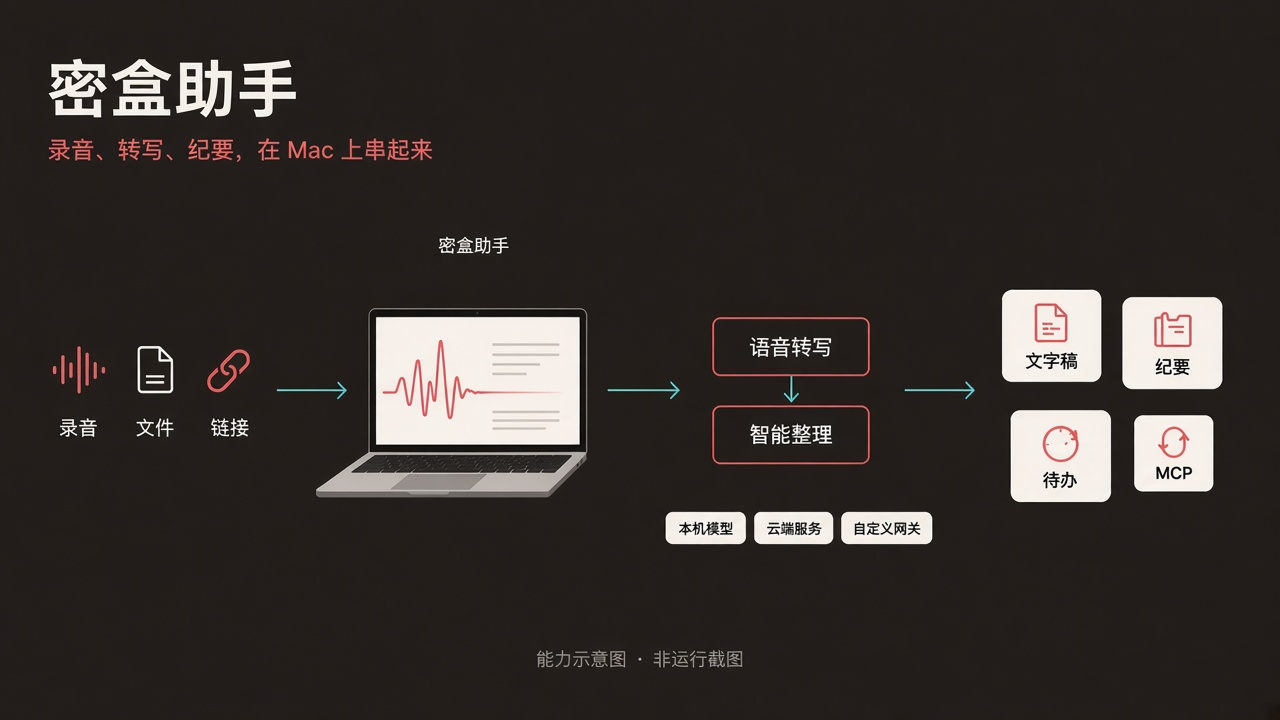
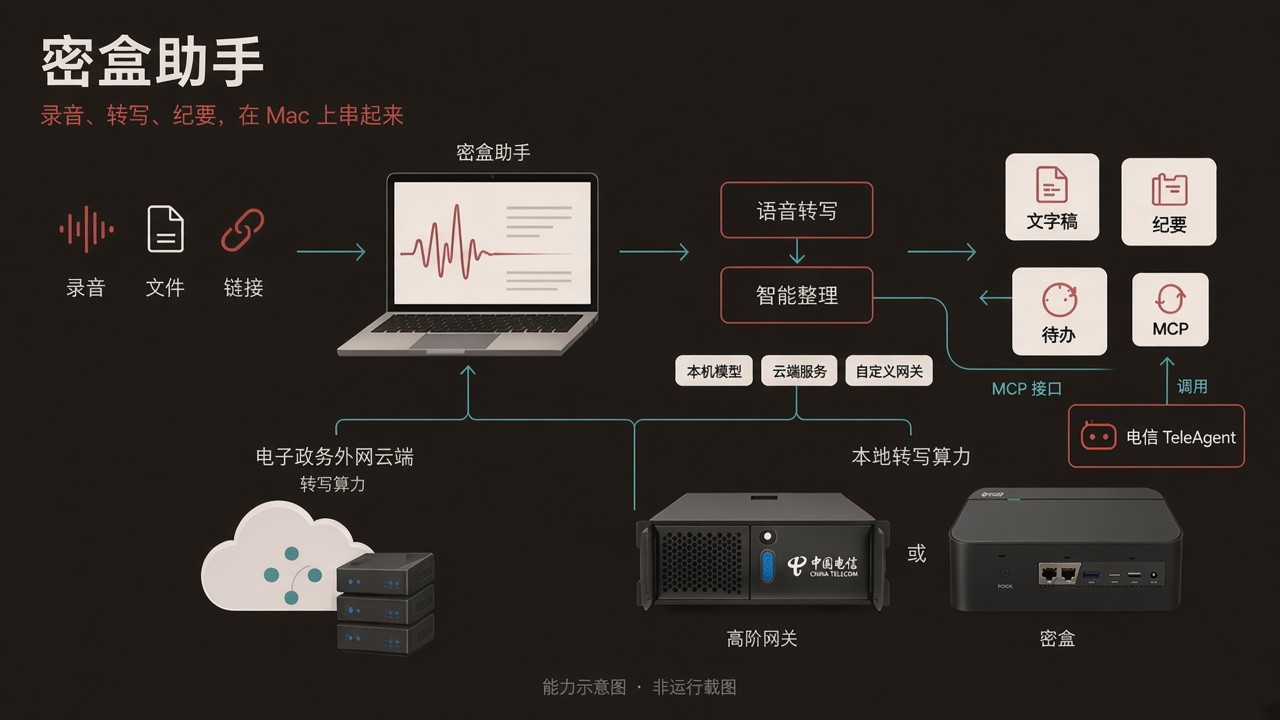
更换首页能力示意图，并分开录音豆与本地密盒
新图表示可选的云端或本地转写算力，以及电信 TeleAgent 经 MCP 调用。设置项仍是 OpenAI 兼容地址，不绑定机型，也不写成已验证部署。

diff --git a/README.en.md b/README.en.md
@@ -6,9 +6,9 @@
 
 Mi Box Assistant is a Mac app that keeps a local library of recordings, turns them into text and notes, and lets you query that library yourself or through MCP. Local models, Apple speech recognition, cloud services, and a user-supplied HTTP gateway are separate choices. Audio or text leaves the Mac only on the paths you enable.
 
-![Capability diagram: recordings, files, and links enter Mi Box Assistant, then transcription and notes produce a transcript, notes, to-dos, and local MCP access. Local models, cloud services, and a custom gateway are optional backends.](docs/assets/mibox-assistant-hero.jpg)
+![Capability diagram: recordings, files, and links enter Mi Box Assistant. Transcription compute is shown as either an e-government extranet cloud or local hardware: a rack-mounted advanced gateway and a small square Mi Box. China Telecom TeleAgent calls the local results through MCP.](docs/assets/mibox-assistant-hero.jpg)
 
-This is a capability diagram, not a screenshot of the running app. The same Chinese artwork is used here; it is already labeled as a diagram rather than a runtime capture. Recordings, files, and links go into the local app, then through transcription and notes. The transcript, notes, and to-dos stay in the local library, and MCP serves this Mac only. The three backends under the diagram are options, not a default that turns all of them on.
+This is an AI-generated capability diagram, not a screenshot of the running app. The same Chinese artwork is used here, and it is labeled as a diagram. Recordings, files, and links enter the Mac app, then go through transcription and notes. The e-government extranet cloud, the rack-mounted gateway, and the square Mi Box are optional deployment sketches specified for this picture: transcription compute may sit in that cloud or on either local device. This repository has not verified a particular government network or these devices in production, and it states no bandwidth or certification figures. In the app, the matching control is an OpenAI-compatible URL you fill in. It is not locked to one chassis, and it is not the D3200 recorder. China Telecom TeleAgent on the right is an MCP client, not another recording protocol.
 
 ## Promo video
 
@@ -25,8 +25,10 @@ Three names:
 | Name | Meaning |
 |---|---|
 | Mi Box Assistant | This Mac app. The Chinese product name is 密盒助手 |
-| 密盒 in the device UI | The Anker soundcore recorder, model D3200. The protocol is still the recorder protocol |
-| Advanced gateway / 密盒 in Settings | An OpenAI-compatible HTTP URL you enter for transcription or notes. Not a second hardware protocol |
+| 密盒 as a recording source | The UI label for the Anker soundcore recorder, model D3200. The link is still the recorder protocol |
+| 密盒 in the homepage diagram | The small square box: a sketch of local inference hardware. The app has no driver for one specific chassis |
+| 高阶网关 in the diagram | The rack: another sketch of local compute, not a verified deployment |
+| 高阶网关/密盒 in Settings | An OpenAI-compatible HTTP URL you enter for transcription or notes. It is not limited to one model of hardware, and it is not the D3200 |
 
 The Mac target in `project.yml` is marketing version **0.1.9 (build 10)**. That is the version in this source tree, not the build already installed on a Mac. Read the version inside the installed app.
 

diff --git a/README.md b/README.md
@@ -6,9 +6,9 @@
 
 密盒助手是跑在 Mac 上的录音工作台：把录音收进本机库，转成文字和纪要，再用知识库或 MCP 查回来。本机模型、系统识别、云端和自填的「高阶网关」可以分开选；只有选了会外发的那一路，对应的音频或文字才会离开这台 Mac。
 
-![能力示意图：录音、文件和链接进入密盒助手，经语音转写和智能整理，得到文字稿、纪要、待办，并可通过 MCP 查询。本机模型、云端服务和自定义网关是可选后端。](docs/assets/mibox-assistant-hero.jpg)
+![能力示意图：录音、文件和链接进入密盒助手。转写算力可以来自图中的电子政务外网云端，或来自本地的高阶网关（机架）与密盒（方形小盒）。电信 TeleAgent 经 MCP 调用本机结果。](docs/assets/mibox-assistant-hero.jpg)
 
-这是能力示意图，不是密盒助手的运行截图。图内已标注「能力示意图 · 非运行截图」。录音、文件、链接进入本机 App，再转写、整理；文字稿、纪要、待办留在本机库，MCP 只在本机提供查询。图下方的本机模型、云端服务、自定义网关是可选后端，不是默认同时打开。
+这是 AI 生成的能力示意图，不是运行截图，图内已标注。录音、文件、链接进入 Mac 上的密盒助手，再转写、整理。图里的电子政务外网云端，以及本地的高阶网关和密盒，是用户指定的可选部署示意：转写算力可以放在云端，也可以放在这两类本地设备上。本仓库没有验证特定政务网络或这些硬件的实际部署，也不提供带宽或认证数据。软件里对应的是设置中自填的 OpenAI 兼容地址，不绑定某一机型。右侧的电信 TeleAgent 表示经 MCP 调用，不是另一套录音协议。
 
 ## 宣传片
 
@@ -25,8 +25,10 @@
 | 说法 | 指什么 |
 |---|---|
 | 密盒助手 | 这个 Mac App。英文界面对应 *Mi Box Assistant* |
-| 密盒 | 界面里对 Anker soundcore 录音豆（型号 D3200）的称呼。通信仍是录音豆协议 |
-| 高阶网关 / 密盒 | 设置里另填的 OpenAI 兼容 HTTP 地址，用来转写或整理。不是第二套硬件协议 |
+| 录音来源里的「密盒」 | 界面把 Anker soundcore 录音豆（型号 D3200）显示为「密盒」。通信仍是录音豆协议 |
+| 图中的本地「密盒」 | 首页示意图里的方形小盒，表示一种本地推理硬件。软件没有为某一机型写专用驱动 |
+| 图中的「高阶网关」 | 首页示意图里的机架设备，同样是本地算力的一种示意，不是已验证的部署 |
+| 设置里的「高阶网关/密盒」 | 自填的 OpenAI 兼容 HTTP 地址，用来转写或整理。它不限定机型，也不是 D3200 本身 |
 
 `project.yml` 里 Mac 目标的营销版本是 **0.1.9（build 10）**。这是仓库源码上的版本号，不是你电脑里已经安装的那个 App。已安装的密盒助手以 App 内显示的版本为准。
 
